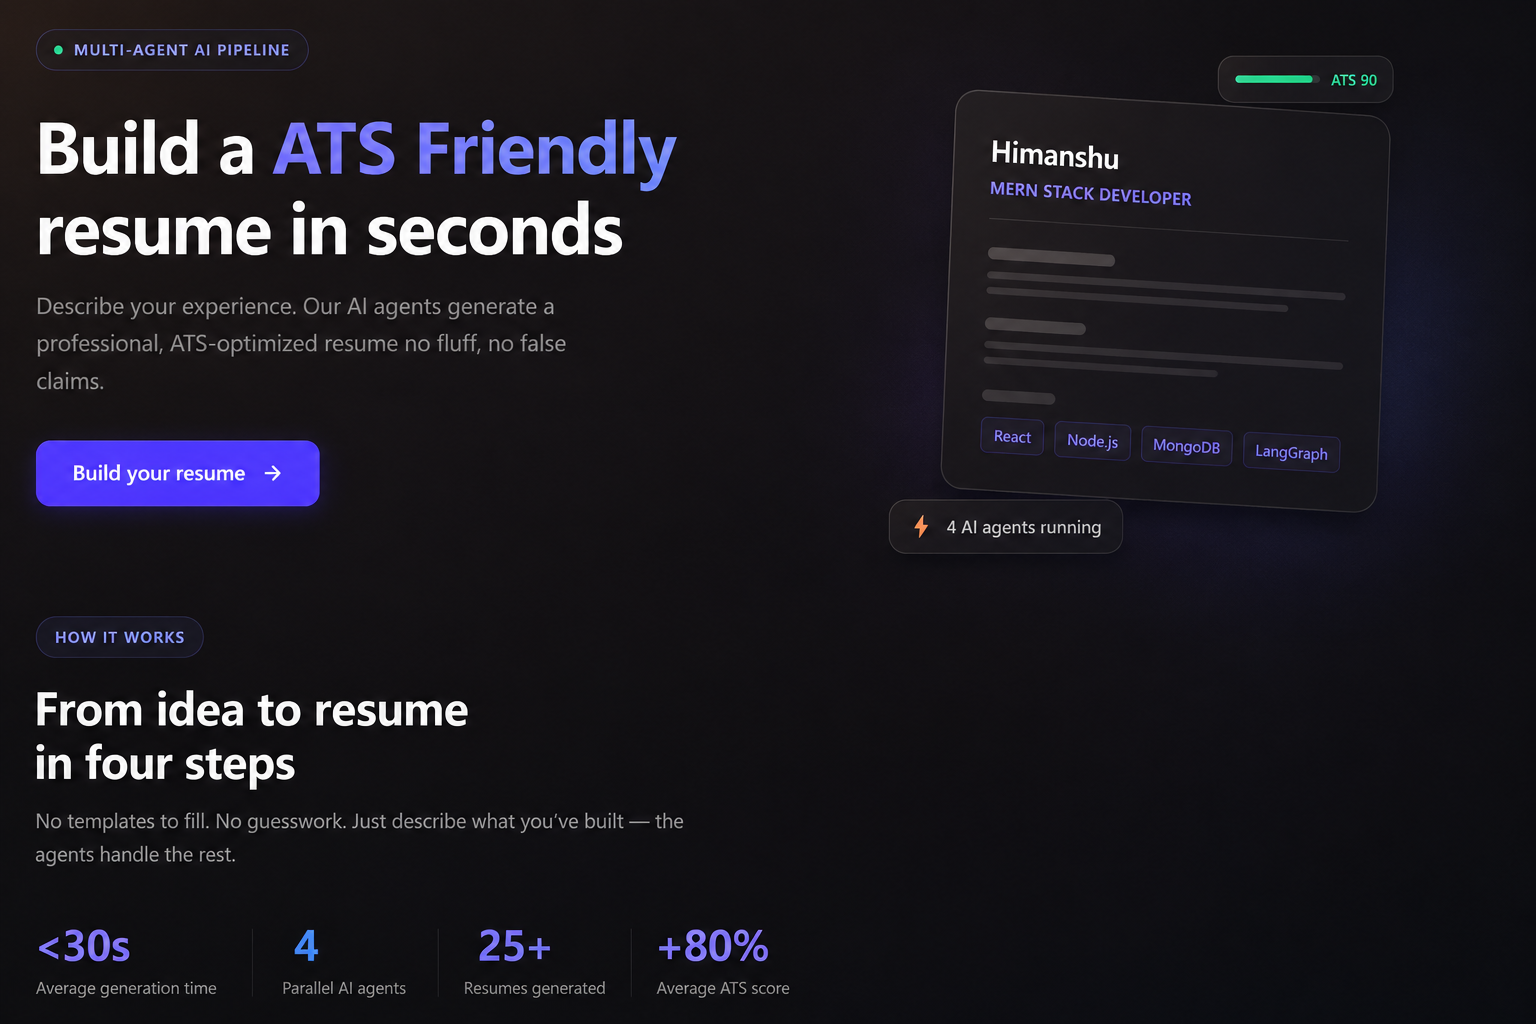
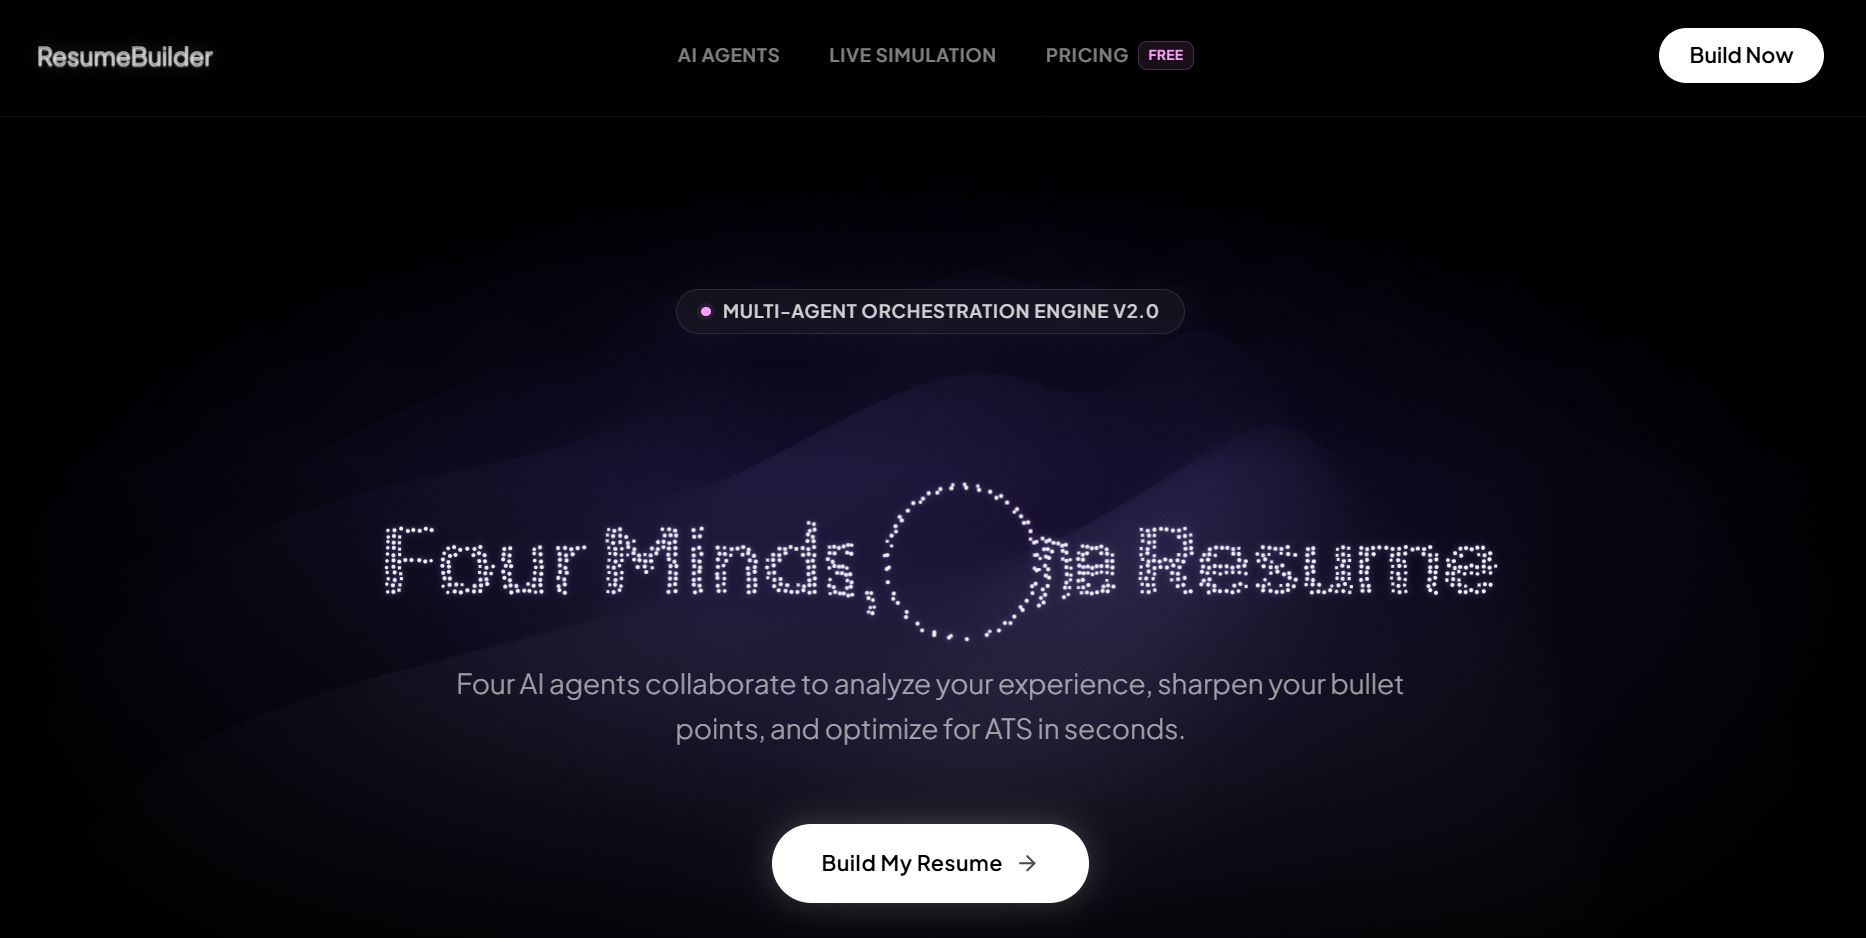
new image adding

diff --git a/src/components/TextPressure.jsx b/src/components/TextPressure.jsx
@@ -1,0 +1,245 @@
+// Component ported from https://codepen.io/JuanFuentes/full/rgXKGQ
+
+import { useEffect, useRef, useState, useMemo, useCallback } from 'react';
+
+const dist = (a, b) => {
+  const dx = b.x - a.x;
+  const dy = b.y - a.y;
+  return Math.sqrt(dx * dx + dy * dy);
+};
+
+const getAttr = (distance, maxDist, minVal, maxVal) => {
+  const val = maxVal - Math.abs((maxVal * distance) / maxDist);
+  return Math.max(minVal, val + minVal);
+};
+
+const debounce = (func, delay) => {
+  let timeoutId;
+  return (...args) => {
+    clearTimeout(timeoutId);
+    timeoutId = setTimeout(() => {
+      func.apply(this, args);
+    }, delay);
+  };
+};
+
+const TextPressure = ({
+  text = 'Compressa',
+  fontFamily = 'Roboto Flex',
+  fontUrl = 'https://fonts.googleapis.com/css2?family=Roboto+Flex:opsz,wdth,wght@8..144,25..151,100..1000&display=swap',
+
+  width = true,
+  weight = true,
+  italic = true,
+  alpha = false,
+
+  flex = true,
+  stroke = false,
+  scale = false,
+
+  textColor = '#FFFFFF',
+  strokeColor = '#FF0000',
+  className = '',
+
+  minFontSize = 24
+}) => {
+  const containerRef = useRef(null);
+  const titleRef = useRef(null);
+  const spansRef = useRef([]);
+
+  const mouseRef = useRef({ x: 0, y: 0 });
+  const cursorRef = useRef({ x: 0, y: 0 });
+
+  const [fontSize, setFontSize] = useState(minFontSize);
+  const [scaleY, setScaleY] = useState(1);
+  const [lineHeight, setLineHeight] = useState(1);
+
+  const chars = text.split('');
+
+  useEffect(() => {
+    const handleMouseMove = e => {
+      cursorRef.current.x = e.clientX;
+      cursorRef.current.y = e.clientY;
+    };
+    const handleTouchMove = e => {
+      const t = e.touches[0];
+      cursorRef.current.x = t.clientX;
+      cursorRef.current.y = t.clientY;
+    };
+
+    window.addEventListener('mousemove', handleMouseMove);
+    window.addEventListener('touchmove', handleTouchMove, { passive: true });
+
+    if (containerRef.current) {
+      const { left, top, width, height } = containerRef.current.getBoundingClientRect();
+      mouseRef.current.x = left + width / 2;
+      mouseRef.current.y = top + height / 2;
+      cursorRef.current.x = mouseRef.current.x;
+      cursorRef.current.y = mouseRef.current.y;
+    }
+
+    return () => {
+      window.removeEventListener('mousemove', handleMouseMove);
+      window.removeEventListener('touchmove', handleTouchMove);
+    };
+  }, []);
+
+  const setSize = useCallback(() => {
+    if (!containerRef.current || !titleRef.current) return;
+
+    const { width: containerW, height: containerH } = containerRef.current.getBoundingClientRect();
+
+    let newFontSize = containerW / (chars.length / 2);
+    newFontSize = Math.max(newFontSize, minFontSize);
+
+    setFontSize(newFontSize);
+    setScaleY(1);
+    setLineHeight(1);
+
+    requestAnimationFrame(() => {
+      if (!titleRef.current) return;
+      const textRect = titleRef.current.getBoundingClientRect();
+
+      if (scale && textRect.height > 0) {
+        const yRatio = containerH / textRect.height;
+        setScaleY(yRatio);
+        setLineHeight(yRatio);
+      }
+    });
+  }, [chars.length, minFontSize, scale]);
+
+  useEffect(() => {
+    const debouncedSetSize = debounce(setSize, 100);
+    debouncedSetSize();
+    window.addEventListener('resize', debouncedSetSize);
+    return () => window.removeEventListener('resize', debouncedSetSize);
+  }, [setSize]);
+
+  useEffect(() => {
+    let rafId;
+    const animate = () => {
+      mouseRef.current.x += (cursorRef.current.x - mouseRef.current.x) / 15;
+      mouseRef.current.y += (cursorRef.current.y - mouseRef.current.y) / 15;
+
+      if (titleRef.current) {
+        const titleRect = titleRef.current.getBoundingClientRect();
+        const maxDist = titleRect.width / 2;
+
+        spansRef.current.forEach(span => {
+          if (!span) return;
+
+          const rect = span.getBoundingClientRect();
+          const charCenter = {
+            x: rect.x + rect.width / 2,
+            y: rect.y + rect.height / 2
+          };
+
+          const d = dist(mouseRef.current, charCenter);
+
+          const wdth = width ? Math.floor(getAttr(d, maxDist, 5, 200)) : 100;
+          const wght = weight ? Math.floor(getAttr(d, maxDist, 100, 900)) : 400;
+          const italVal = italic ? getAttr(d, maxDist, 0, 1).toFixed(2) : 0;
+          const alphaVal = alpha ? getAttr(d, maxDist, 0, 1).toFixed(2) : 1;
+
+          const newFontVariationSettings = `'wght' ${wght}, 'wdth' ${wdth}, 'ital' ${italVal}`;
+
+          if (span.style.fontVariationSettings !== newFontVariationSettings) {
+            span.style.fontVariationSettings = newFontVariationSettings;
+          }
+          if (alpha && span.style.opacity !== alphaVal) {
+            span.style.opacity = alphaVal;
+          }
+        });
+      }
+
+      rafId = requestAnimationFrame(animate);
+    };
+
+    animate();
+    return () => cancelAnimationFrame(rafId);
+  }, [width, weight, italic, alpha]);
+
+  const styleElement = useMemo(() => {
+    return (
+      <style>{`
+        @import url('${fontUrl}');
+
+        .flex {
+          display: flex;
+          justify-content: space-between;
+        }
+
+        .stroke span {
+          position: relative;
+          color: ${textColor};
+        }
+        .stroke span::after {
+          content: attr(data-char);
+          position: absolute;
+          left: 0;
+          top: 0;
+          color: transparent;
+          z-index: -1;
+          -webkit-text-stroke-width: 3px;
+          -webkit-text-stroke-color: ${strokeColor};
+        }
+
+        .text-pressure-title {
+          color: ${textColor};
+        }
+      `}</style>
+    );
+  }, [fontFamily, fontUrl, textColor, strokeColor]);
+
+  const dynamicClassName = [className, flex ? 'flex' : '', stroke ? 'stroke' : ''].filter(Boolean).join(' ');
+
+  return (
+    <div
+      ref={containerRef}
+      style={{
+        position: 'relative',
+        width: '100%',
+        height: '100%',
+        background: 'transparent'
+      }}
+    >
+      {styleElement}
+      <h1
+        ref={titleRef}
+        className={`text-pressure-title ${dynamicClassName}`}
+        style={{
+          fontFamily,
+          textTransform: 'uppercase',
+          fontSize: fontSize,
+          lineHeight,
+          transform: `scale(1, ${scaleY})`,
+          transformOrigin: 'center top',
+          margin: 0,
+          textAlign: 'center',
+          userSelect: 'none',
+          whiteSpace: 'nowrap',
+          fontWeight: 100,
+          width: '100%'
+        }}
+      >
+        {chars.map((char, i) => (
+          <span
+            key={i}
+            ref={el => {
+              spansRef.current[i] = el;
+            }}
+            data-char={char}
+            style={{
+              display: 'inline-block',
+              color: stroke ? undefined : textColor
+            }}
+          >
+            {char}
+          </span>
+        ))}
+      </h1>
+    </div>
+  );
+};
+
+export default TextPressure;

diff --git a/src/pages/landing.jsx b/src/pages/landing.jsx
@@ -1,6 +1,7 @@
 
 import { ArrowDownRight, ArrowUpRight, Menu, X } from "lucide-react";
 import { useEffect, useState, useRef } from "react";
+import TextPressure from '../components/TextPressure';
 
 
 import gsap from "gsap";
@@ -230,7 +231,7 @@ const landing = () => {
                         <div className='flex justify-center items-center'>
                             <img ref={imgRef}
                                 src="https://i.pinimg.com/1200x/24/2d/27/242d274244a9418715f036fedea751d9.jpg"
-                                className='h-[9.2rem] w-[6.9rem] md:h-[16rem] md:w-[12rem] object-cover rounded-md grayscale'
+                                className='h-[9.2rem] w-[6.9rem] md:h-[14rem] md:w-[10rem] object-cover rounded-md grayscale'
                                 alt="image"
                             />
                         </div>
